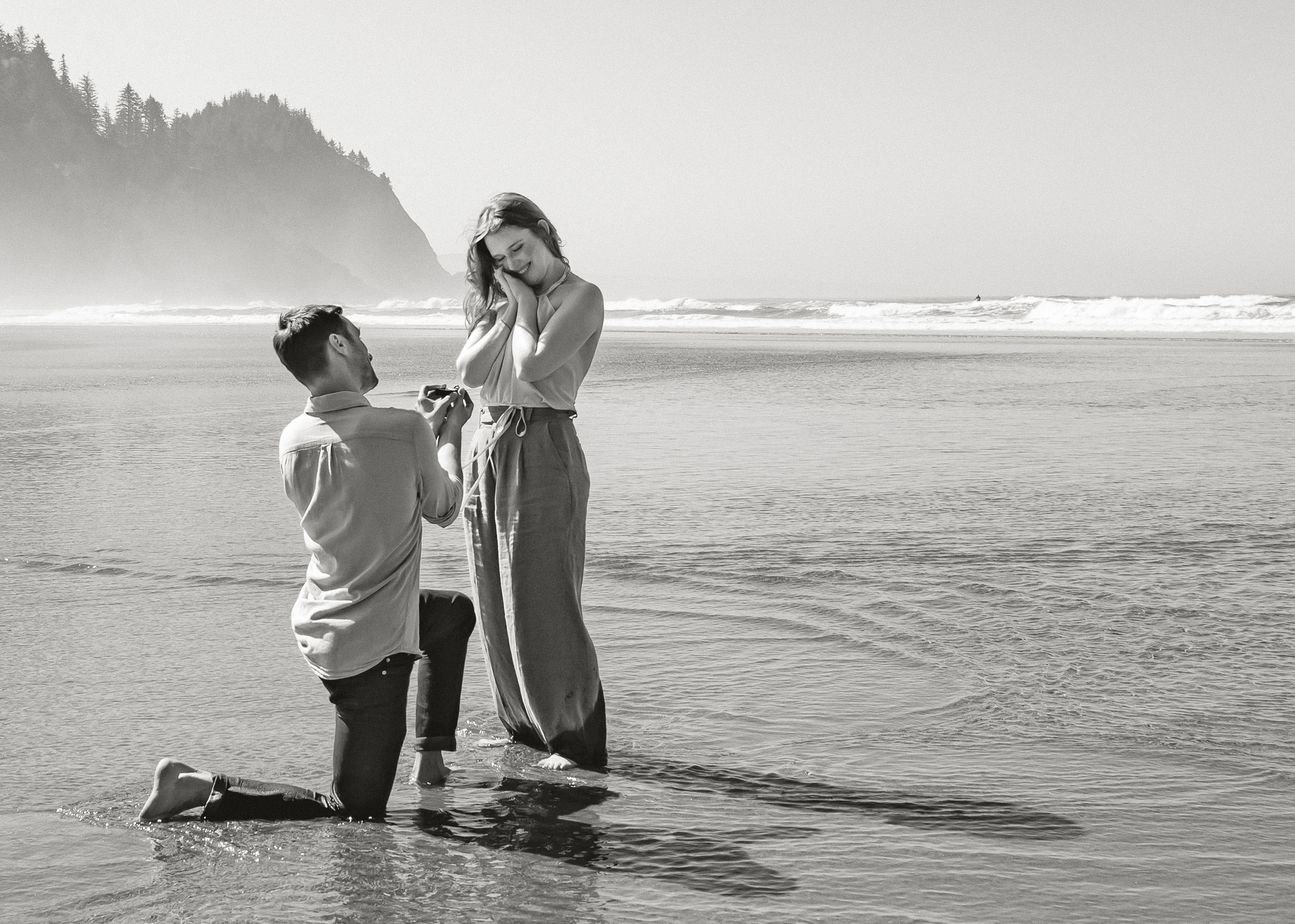
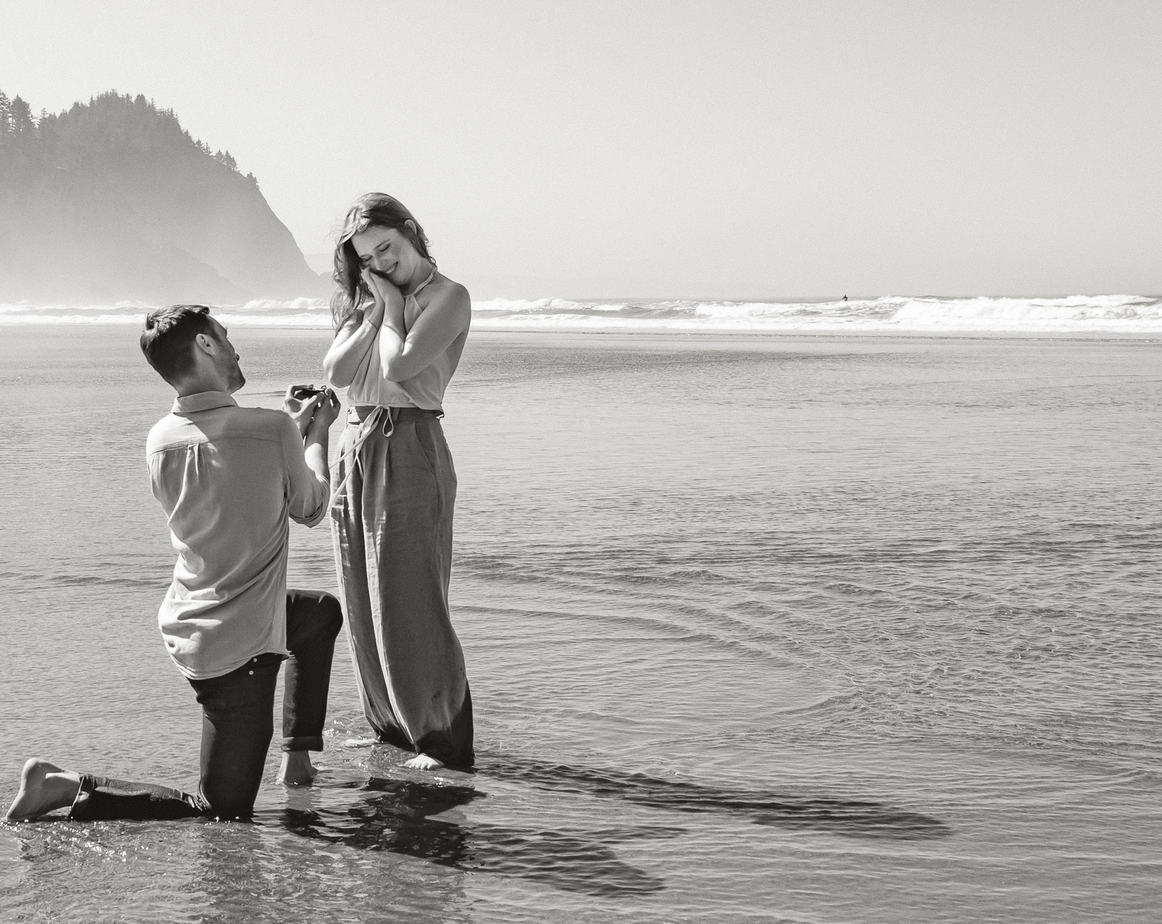
edited photo and added form questions

diff --git a/index.html b/index.html
@@ -172,7 +172,7 @@
 				<div class="row">
 					<div class="col-md-6 col-sm-12 col-xs-12 leftcol">
 						<div class="wp3">
-							<p><strong>27th November</strong></p>
+							<p><strong>10th July</strong></p>
 
 							<h5>Mehndi <span class="time">1PM - 5PM</span></h5>
 							<p>It's one of the oldest traditional Indian pre wedding ceremony where the bride and groom
@@ -397,9 +397,23 @@
 						<div class="row">
 							<div class="col-md-6 col-sm-6">
 								<div class="form-input-group">
-									<i class="fa fa-users"></i><input type="number" name="plus_ones"
-										class="" min="0" max="4" placeholder="Husband/Wife or kids"
+									<i class="fa fa-users"></i><input type="number" name="group_size"
+										class="" min="0" max="4" placeholder="Group size"
 										required>
+								</div>
+							</div>
+							<div class="col-md-6 col-sm-6">
+								<div class="form-input-group">
+									<i class="fa fa-list-ol"></i><input name="family_names" class=""
+										placeholder="Additional names (N/A if none)" required>
+								</div>
+							</div>
+						</div>
+						<div class="row">
+							<div class="col-md-6 col-sm-6">
+								<div class="form-input-group">
+									<i class="fa fa-cutlery"></i><input type="dietary_restrictions" name="dietary_restrictions" class=""
+										placeholder="Dietary restrictions (N/A if none)" required>
 								</div>
 							</div>
 							<div class="col-md-6 col-sm-6">
@@ -454,7 +468,7 @@
 	<script src="js/jquery.flexslider-min.js"></script>
 	<script src="js/jquery.mb.YTPlayer.min.js"></script>
 	<script src="js/vendor/ouical.js"></script>
-	<script src="js/scripts.min.js"></script>
+	<script src="js/scripts.js"></script>
 	<script>
 		(function (i, s, o, g, r, a, m) {
 			i['GoogleAnalyticsObject'] = r;

diff --git a/css/styles.min.css b/css/styles.min.css
@@ -998,6 +998,8 @@ header .member-actions {
 .rsvp .rsvp-form .form-input-group i.fa-user,
 .rsvp .rsvp-form .form-input-group i.fa-users,
 .rsvp .rsvp-form .form-input-group i.fa-envelope,
+.rsvp .rsvp-form .form-input-group i.fa-cutlery,
+.rsvp .rsvp-form .form-input-group i.fa-list-ol,
 .rsvp .rsvp-form .form-input-group .fa-key {
     font-size: 14px;
     position: absolute;
